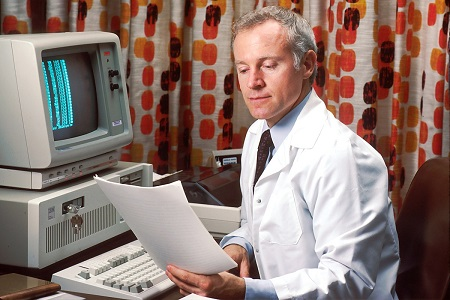
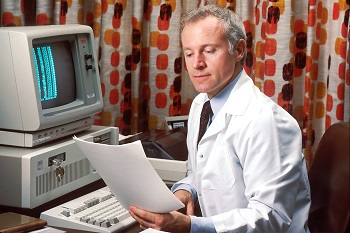
final tn

diff --git a/_posts/2020-01-29-avoiding-duplicate-records-with-aws-kcl-and-s3.md b/_posts/2020-01-29-avoiding-duplicate-records-with-aws-kcl-and-s3.md
@@ -2,9 +2,9 @@
 layout: post
 title: ! 'Avoiding duplicate records with AWS KCL and S3: Exactly once record processing of Kinesis Data Streams (1/2)'
 tags: [aws, kcl, s3, dotnet]
-featured_image: assets/images/posts/2020/01/29/01.jpg?1
-featured_image_thumbnail: assets/images/posts/2020/01/29/01_tn.jpg?1
-image: assets/images/posts/2020/01/29/01_tn.jpg?1
+featured_image: assets/images/posts/2020/01/29/01.jpg
+featured_image_thumbnail: assets/images/posts/2020/01/29/01_tn.jpg
+image: assets/images/posts/2020/01/29/01_tn.jpg
 ---
 
 If you have managed to find this article, it is fair to assume that you are trying to decide a strategy to avoid processing duplicate records from Kinesis Data Streams using KCL and have a fair understanding of how KCL works. In this post, I will explain how we can implement a design, which will allow us to achieve "Exactly once" kinesis record processing and hence avoid duplicates.
